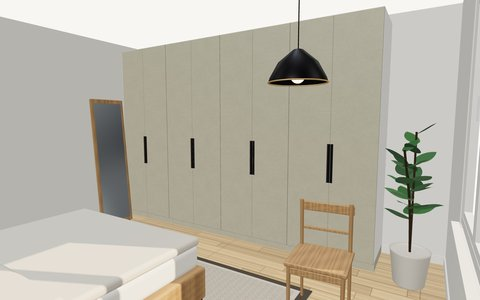
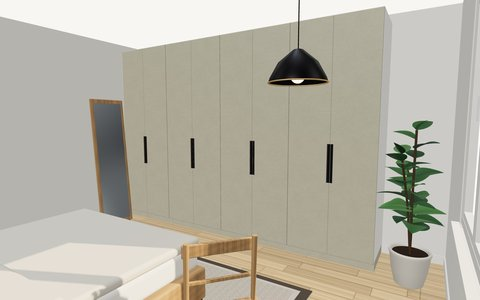
Studio: new pottaplanta model; room renders round 2 (chair, wide mirror cabinet + uthlid + top, lighter door oak)

diff --git a/kitchen-planner-3d.js b/kitchen-planner-3d.js
@@ -7487,6 +7487,29 @@
     g.rotateX(-Math.PI / 2); g.computeVertexNormals();
     return (DECOR_CACHE[key] = g);
   }
+  // A plant leaf (2026-10-28 overhaul): pointed oval, folded along the midrib, drooping along its length, with a
+  // vertex-colour gradient (darker at the midrib and base, lighter at the edges). 7 × 9 grid ≈ 112 triangles, cached per size.
+  function plantLeafGeometry(THREE, len, wid, bend){
+    var key = "pleaf" + [len, wid, bend].join("_"), g = DECOR_CACHE[key];
+    if (g) return g;
+    var NC = 7, NR = 9, pos = [], col = [], idx = [], i, j;
+    for (j = 0; j <= NR; j++){
+      var t = j / NR, w = wid * Math.pow(Math.sin(Math.PI * Math.pow(Math.max(t, 0.001), 0.72)), 0.8) * (1 - 0.18 * t);
+      for (i = 0; i <= NC; i++){
+        var u = i / NC * 2 - 1, x = u * w, y = t * len;
+        var z = Math.abs(u) * w * 0.22 - t * t * len * bend + Math.sin(u * 2.4) * 0.002 * len * t; // V fold at the midrib, droop, a faint ripple
+        pos.push(x, y, z);
+        var sh = 0.72 + 0.28 * Math.abs(u) + 0.08 * t - (Math.abs(u) < 0.14 ? 0.16 : 0); // paler towards the edge, a darker midrib line
+        col.push(sh, sh, sh);
+      }
+    }
+    for (j = 0; j < NR; j++) for (i = 0; i < NC; i++){ var a = j * (NC + 1) + i, b = a + 1, c = a + NC + 1, d = c + 1; idx.push(a, c, b, b, c, d); }
+    g = new THREE.BufferGeometry();
+    g.setAttribute("position", new THREE.Float32BufferAttribute(pos, 3));
+    g.setAttribute("color", new THREE.Float32BufferAttribute(col, 3));
+    g.setIndex(idx); g.rotateX(-Math.PI / 2); g.computeVertexNormals();
+    return (DECOR_CACHE[key] = g);
+  }
   function buildDecor(THREE, key, item){
     var gr = new THREE.Group(), RB = window.__RoundedBox__;
     function mat(c, r, m, extra){ return new THREE.MeshStandardMaterial(Object.assign({ color:c, roughness:r == null ? 0.6 : r, metalness:m || 0 }, extra || {})); }
@@ -7536,35 +7559,40 @@
       }
       var fr = new THREE.Mesh(new THREE.TorusGeometry(0.163, 0.008, 8, 36), blackMetal); fr.rotation.x = Math.PI / 2; fr.position.y = 0.22; add(fr);
     } else if (key === "planta" || key === "plantaLitil"){
+      // 2026-10-28: a tapered stone-ceramic pot with a soft rim and a domed soil top, woody curved stems, many drooping
+      // folded leaves in four greens (a fiddle-leaf fig); the small one is a leafy rosette in a glossy little pot.
       var big = key === "planta", sc = big ? 1 : 0.42;
-      var potM = big ? mat(0xd9d3c7, 0.85) : mat(0xe9e4da, 0.35);
-      lathe([[0, 0], [0.12, 0], [0.13, 0.01], [0.165, 0.3], [0.17, 0.32], [0.158, 0.32], [0.152, 0.3], [0, 0.3]].map(function(p){ return [p[0] * sc, p[1] * sc]; }), potM, 40);
-      cyl(0.152 * sc, 0.152 * sc, 0.01, 0, 0.29 * sc, 0, mat(0x3b2d22, 1), 32);
-      var h0 = 0.29 * sc; // soil level
-      var greens = [0x2f5a2c, 0x3b6a35, 0x2a4f27, 0x45753c];
-      function leafAt(px, py, pz, ang, up, L, i){ // a leaf whose base sits at (px,py,pz), pointing outward along ang, tilted up by `up`
-        var Wd = L * (big ? 0.45 : 0.36);
-        var lf = new THREE.Mesh(leafGeometry(THREE, +L.toFixed(3), +Wd.toFixed(3), big ? 0.12 : 0.1, false), mat(greens[i % greens.length], 0.45, 0, { side:THREE.DoubleSide }));
+      var potM = big ? mat(0xd8d2c6, 0.72) : mat(0xece7de, 0.3);
+      lathe([[0, 0], [0.105, 0], [0.12, 0.012], [0.15, 0.14], [0.168, 0.28], [0.176, 0.3], [0.17, 0.318], [0.158, 0.318], [0.153, 0.3], [0.15, 0.285]].map(function(p){ return [p[0] * sc, p[1] * sc]; }), potM, 40);
+      var h0 = 0.285 * sc; // soil level
+      lathe([[0, 0.012], [0.146, 0], [0.15, -0.012], [0, -0.012]].map(function(p){ return [p[0] * sc, p[1] * sc]; }), mat(0x3b2d22, 1), 28, 0, h0 + 0.008 * sc, 0);
+      var greens = [mat(0x2f5a2c, 0.5, 0, { vertexColors:true, side:THREE.DoubleSide }), mat(0x3b6a35, 0.5, 0, { vertexColors:true, side:THREE.DoubleSide }),
+        mat(0x27492a, 0.5, 0, { vertexColors:true, side:THREE.DoubleSide }), mat(0x4a7a3d, 0.5, 0, { vertexColors:true, side:THREE.DoubleSide })];
+      var stemM = mat(0x5a4533, 0.8);
+      function leafAt(px, py, pz, ang, up, L, i){ // base at (px,py,pz), tip pointing out along ang, raised by `up`
+        var lf = new THREE.Mesh(plantLeafGeometry(THREE, +L.toFixed(2), +(L * (big ? 0.42 : 0.36)).toFixed(3), big ? 0.35 : 0.3), greens[(i * 7 + (i >> 2)) % 4]);
         lf.position.set(px, py, pz); lf.rotation.order = "YXZ";
-        lf.rotation.y = Math.atan2(-Math.cos(ang), -Math.sin(ang)); // the leaf's tip (-z) points out along (cos ang, sin ang)
-        lf.rotation.x = up; lf.rotation.z = 0.25 * Math.sin(i * 2.3);
+        lf.rotation.y = Math.atan2(-Math.cos(ang), -Math.sin(ang)); // the tip (-z) points out along (cos ang, sin ang)
+        lf.rotation.x = up; lf.rotation.z = 0.3 * Math.sin(i * 2.3);
+        lf.scale.setScalar(0.92 + 0.16 * Math.abs(Math.sin(i * 1.7)));
         add(lf);
       }
-      if (big){ // rubber plant: three woody stems, leaves spiralling up them
-        var stemM = mat(0x4b3a2a, 0.8), li2 = 0;
-        [[0.0, 1.1, 0.0], [0.07, 0.95, 2.1], [0.06, 0.8, 4.2]].forEach(function(st){
-          var lean = st[0], H = st[1], dir = st[2], top = [Math.cos(dir) * lean * 2.2, h0 + H, Math.sin(dir) * lean * 2.2];
-          var curve = new THREE.CatmullRomCurve3([new THREE.Vector3(0, h0, 0), new THREE.Vector3(top[0] * 0.3, h0 + H * 0.5, top[2] * 0.3), new THREE.Vector3(top[0], top[1], top[2])]);
-          add(new THREE.Mesh(new THREE.TubeGeometry(curve, 20, 0.009, 6, false), stemM));
-          for (var t = 0.38; t <= 1.0001; t += 0.075){
-            var pt = curve.getPoint(t), ang = li2 * 2.399 + dir, L = 0.27 - 0.08 * t;
-            leafAt(pt.x, pt.y, pt.z, ang, 0.15 + t * 0.55, L, li2++);
+      if (big){
+        var li2 = 0;
+        [[0.0, 1.12, 0.3], [0.07, 0.92, 2.2], [0.06, 0.74, 4.3]].forEach(function(st){
+          var lean = st[0], H = st[1], dir = st[2], top = [Math.cos(dir) * lean * 2.4, h0 + H, Math.sin(dir) * lean * 2.4];
+          var curve = new THREE.CatmullRomCurve3([new THREE.Vector3(0, h0 - 0.01, 0), new THREE.Vector3(top[0] * 0.25 - Math.sin(dir) * 0.012, h0 + H * 0.45, top[2] * 0.25 + Math.cos(dir) * 0.012), new THREE.Vector3(top[0], top[1], top[2])]);
+          add(new THREE.Mesh(new THREE.TubeGeometry(curve, 16, 0.0095, 6, false), stemM));
+          for (var t = 0.34; t <= 1.0001; t += 0.066){
+            var pt = curve.getPoint(t), ang = li2 * 2.399 + dir, L = 0.3 - 0.12 * t;
+            leafAt(pt.x, pt.y, pt.z, ang, 0.1 + t * 0.6, L, li2++);
           }
+          leafAt(top[0], top[1], top[2], dir, 1.15, 0.12, li2++); // a young upright leaf at the tip
         });
-      } else { // a small leafy pot plant: a rosette from the soil
-        for (var j = 0; j < 9; j++){
-          var a2 = j * 2.399, L2 = 0.1 + 0.025 * Math.sin(j * 1.3);
-          leafAt(Math.cos(a2) * 0.01, h0 + 0.01 + j * 0.004, Math.sin(a2) * 0.01, a2, 0.45 + 0.35 * (j % 3) / 2, L2, j);
+      } else {
+        for (var j = 0; j < 14; j++){
+          var a2 = j * 2.399, L2 = 0.1 + 0.03 * Math.sin(j * 1.3) + (j < 5 ? 0.02 : 0);
+          leafAt(Math.cos(a2) * 0.012, h0 + 0.01 + j * 0.003, Math.sin(a2) * 0.012, a2, 0.3 + 0.5 * (j % 5) / 4, L2, j);
         }
       }
     } else if (key === "motta"){
